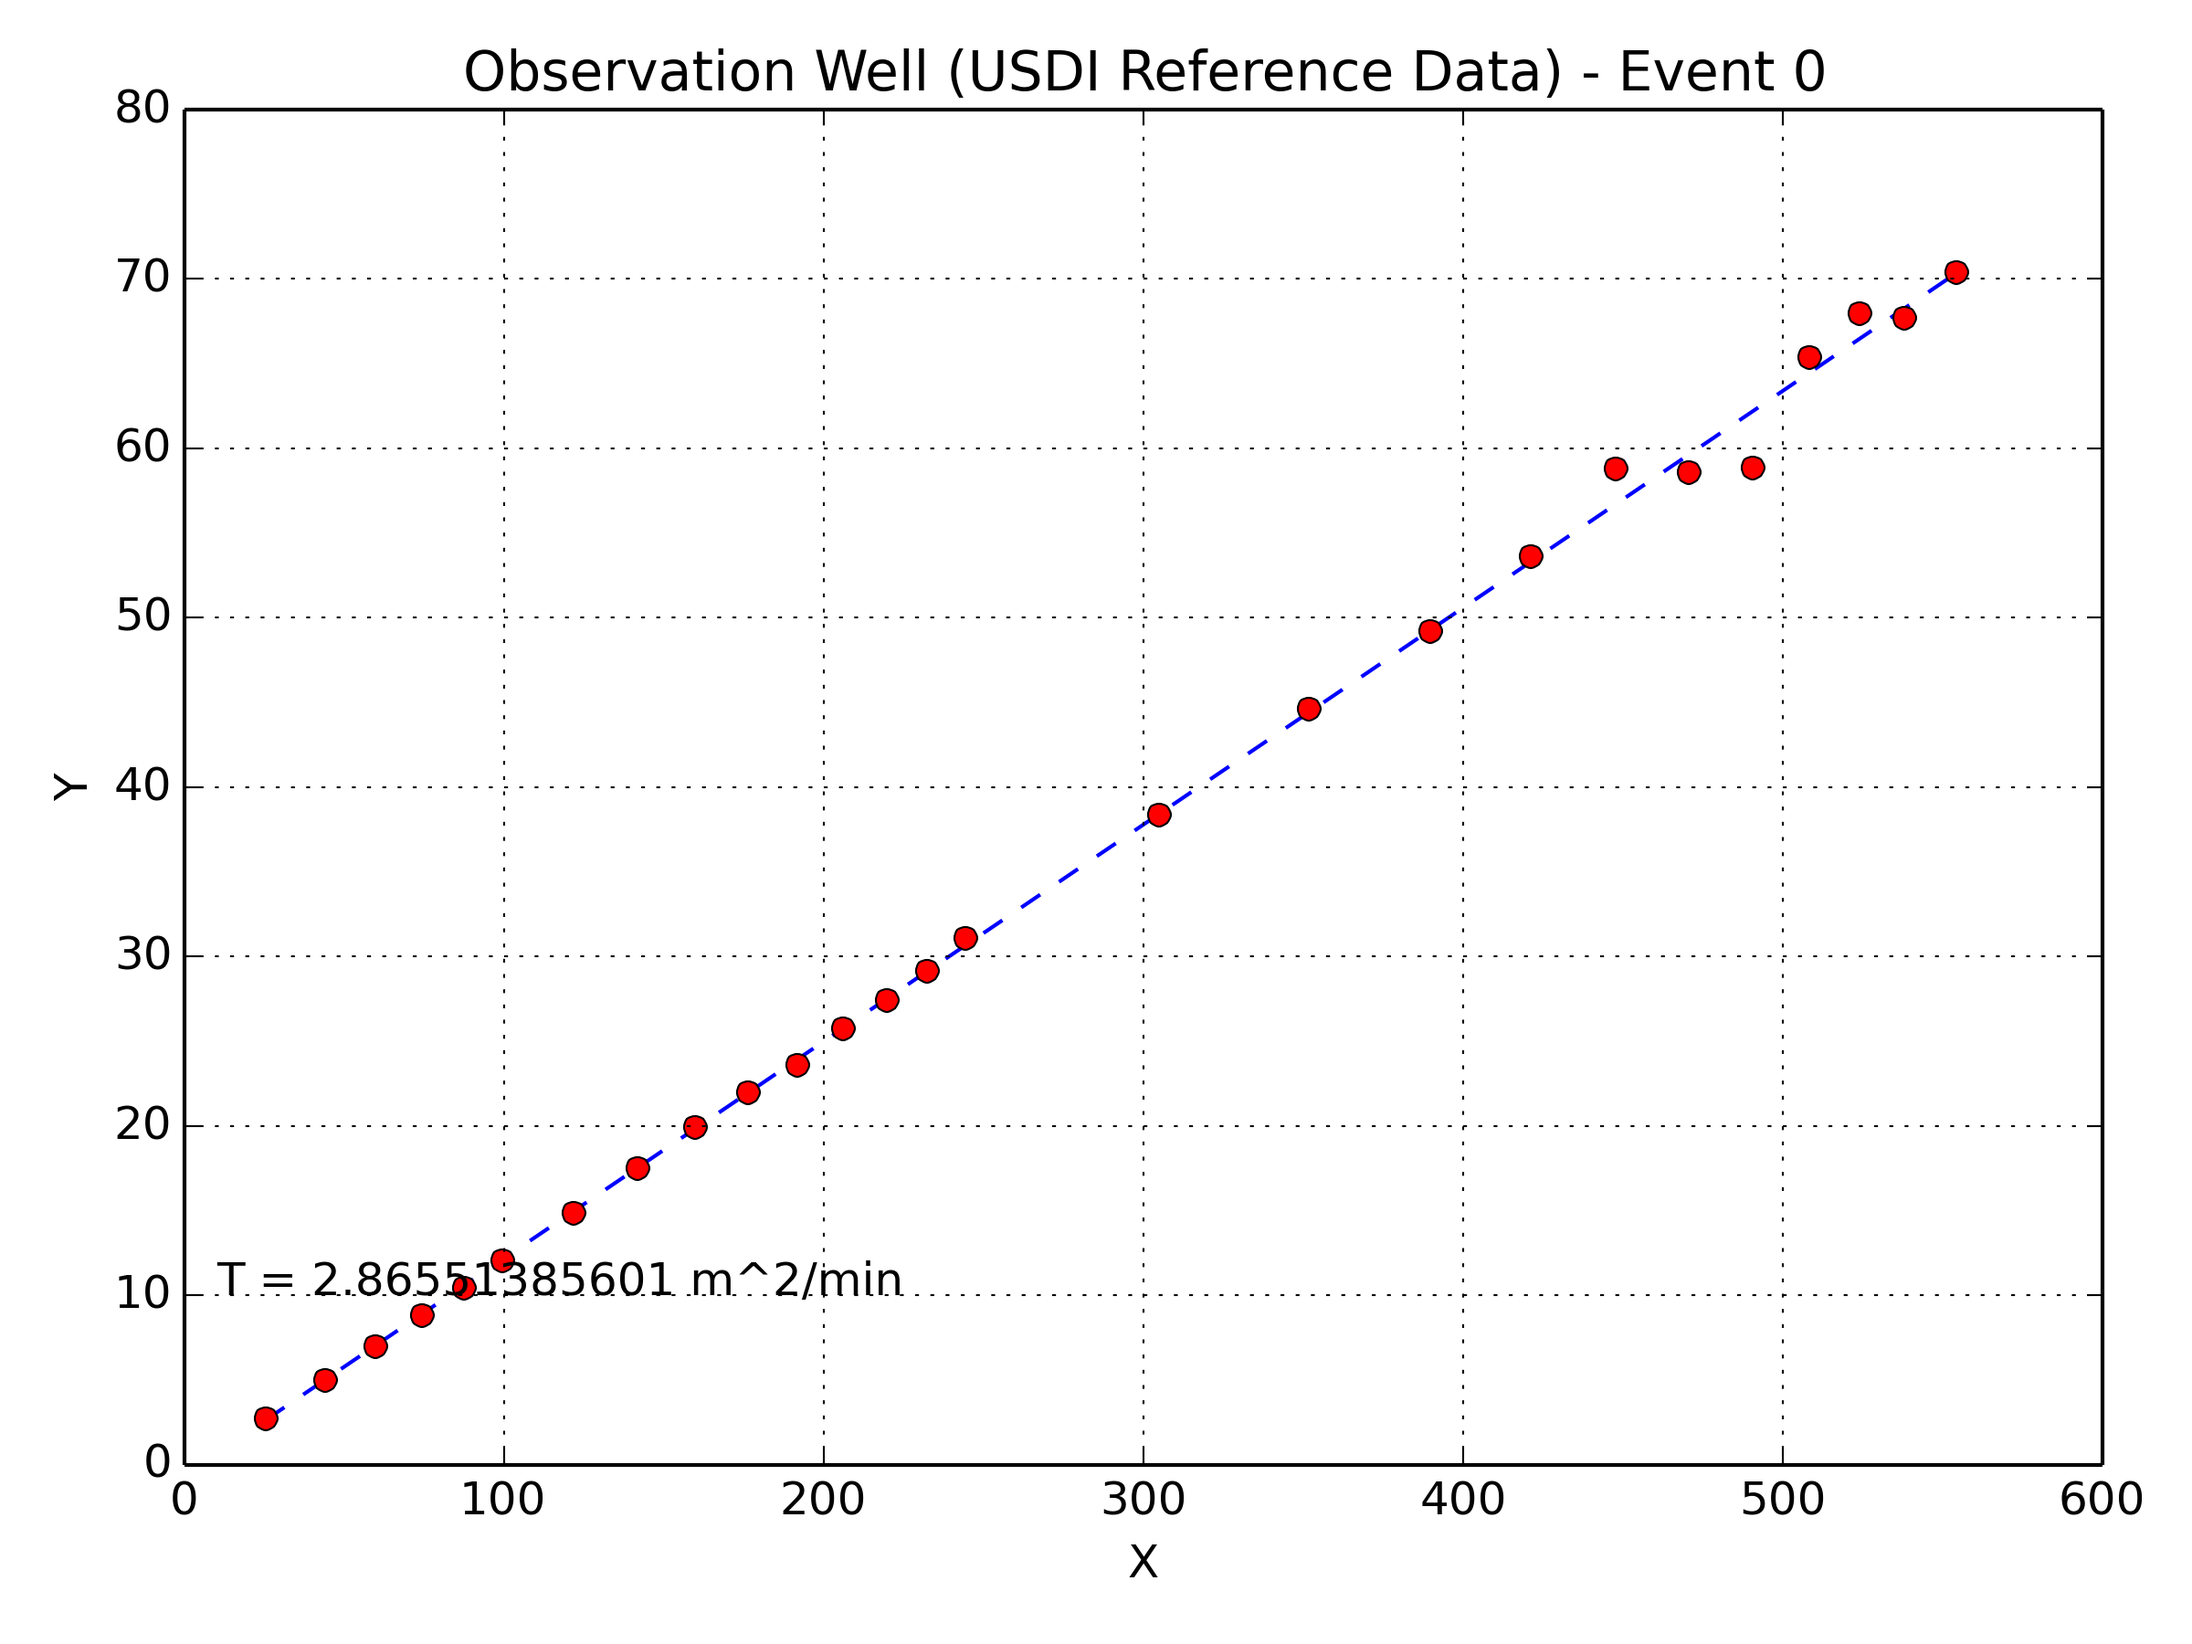
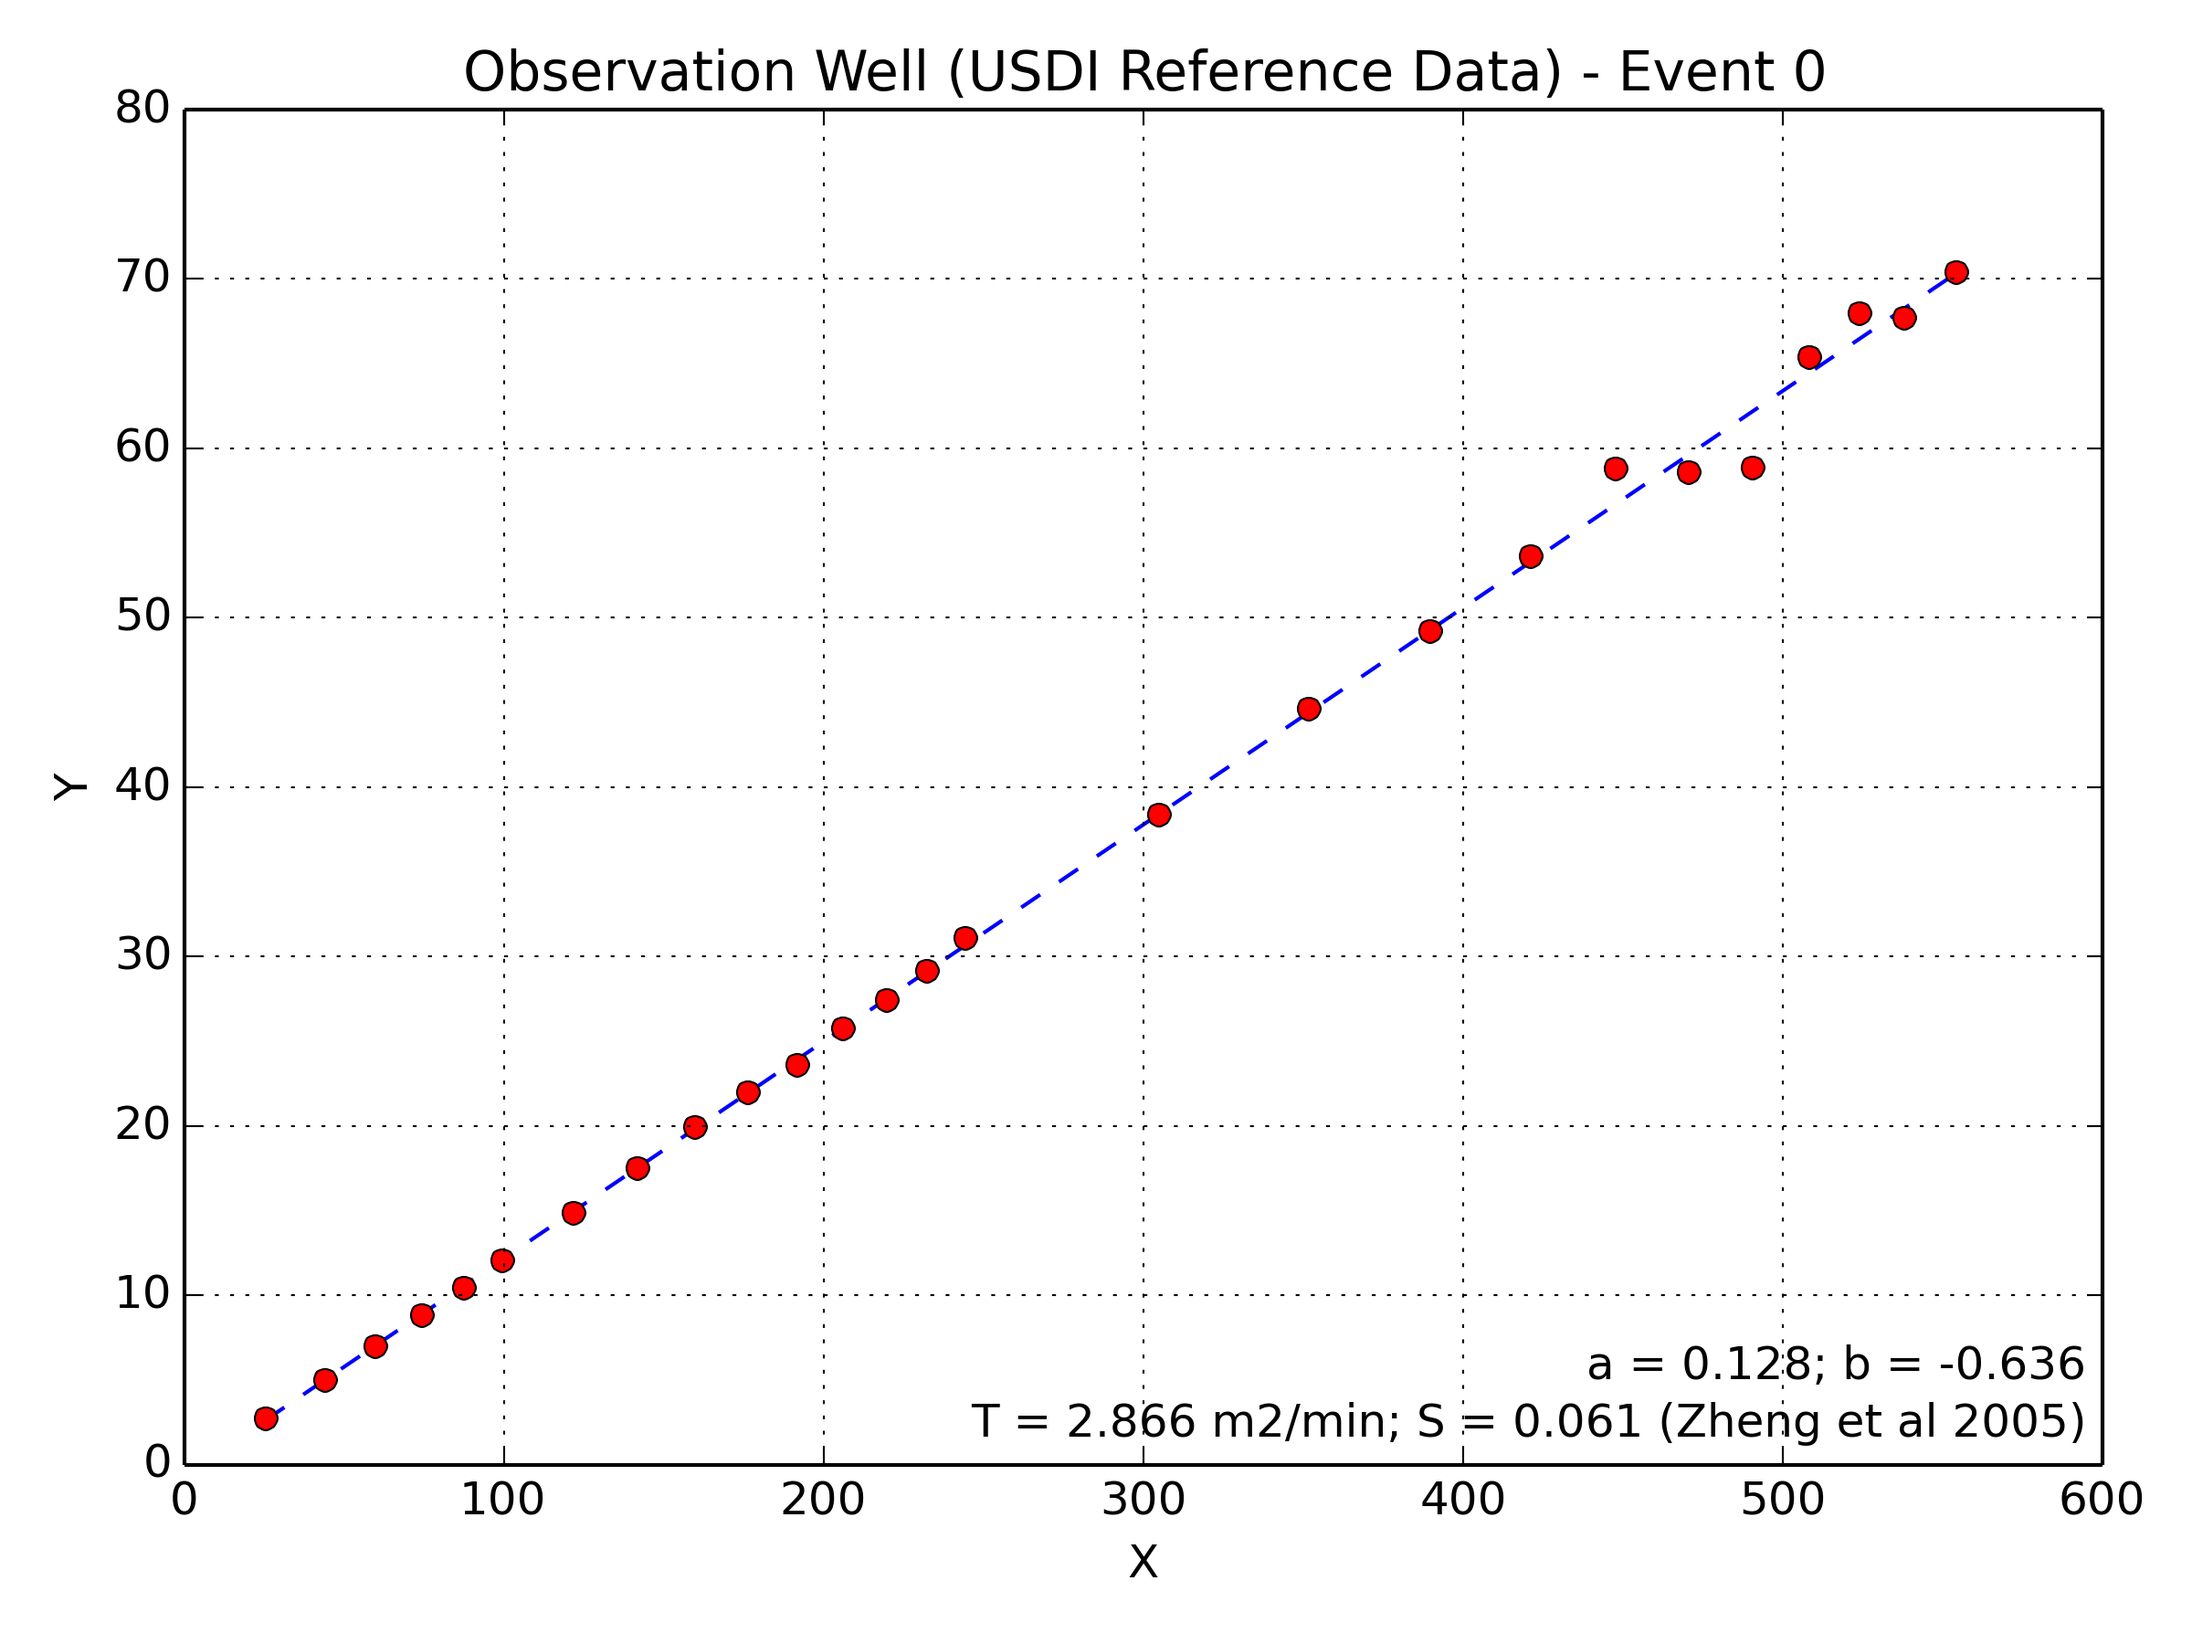
fixed bugs related to computation of T and S. Added testdata USDI. Test successful.

diff --git a/pumptest.py b/pumptest.py
@@ -6,7 +6,6 @@ Created on 08.02.2016
 Last modified on 20.09.2016
 Author: Marc Wieland
 Description: Single-well pump test to derive transmissivity and storage coefficient from waterlevel measurements.
-             0. Optional: Convert units of input data to [m below surface]
              1. Optional: Resample and/or slice timeseries
              2. Optional: Correct waterlevel with airpressure data
              3. Detect drawdown and fill events in waterlevel timeseries (automatic or manual).
@@ -19,14 +18,13 @@ Description: Single-well pump test to derive transmissivity and storage coeffici
                  a = slope of straight line fit
                  b = intercept of straight line fit
                  r = radius
-             6. Write events, waterlevels drawdown and fill (recovery) data into csv files and plot figures  
+             6. Write waterlevels drawdown and fill (recovery) data into csv files and plot figures  
 Reference: Zheng, Guo and Lei (2005): An improved straight-line fitting method for analyzing pumping 
             test recovery data. Ground water, 43 (6), 939-942.
-           Cooper and Jacob (1946): A generalized method for evaluating formation constants
-            and summarizing well-field history. Transactions of the American Geophysical
-            Union, 27 (5), 526-534.
             
-Note: Fill events are currently identified as time between two succeeding drawdown events.
+Note: Fill events are currently identified as being between two succeeding drawdown events.
+
+TODO: test with pisciarelli data
 ----
 '''
 
@@ -41,7 +39,7 @@ site_name = 'Observation Well'
 instrument = 'USDI Reference Data'
 ###
 wdir = '/home/mwieland/eclipse_workspace/python/medsuv/testdata/' # Work directory
-dat_wl = 'usdi_observationwell.csv' # File that holds the water level data 
+dat_wl = 'usdi_observationwell_auto.csv' # File that holds the water level data 
 col_wl_t = 't'  # Column that holds the measurement timestamps
 col_wl = 'wl_m' # Column that holds the water level measures in [m below surface] or [mbar]
 mbar2m = False  # Convert water level measures from [mbar] to [m below surface]
@@ -67,7 +65,7 @@ if_f = 'cubic'  # Temporal interpolation function for fill events
                 # {'linear', 'time', 'index', 'values', 'nearest', 'zero', 'slinear', , 'quadratic',
                 #  'cubic', 'barycentric', 'krogh', 'polynomial', 'spline', 'piecewise_polynomial', 'pchip'}
 ###
-eventdetection = 'manual'  # Drawdown event detection ('auto': automatic; 'manual': manual)
+eventdetection = 'auto'  # Drawdown event detection ('auto': automatic; 'manual': manual)
 peak_lookahead = 1  # Drawdown event detection ('auto'): distance to look ahead from a peak candidate to determine the actual peak
 # Drawdown event detection ('manual'): provide lists of start water level and timestamp (h1, h1_t) and stop water level and timestamps (h2, h2_t) of drawdown events 
 events = {'h1' : [18.654, 18.742], 'h1_t' : ['1975-05-19 08:40', '1975-05-20 11:20'], 'h2' : [19.221, 18.742], 'h2_t' : ['1975-05-19 22:00', '1975-05-20 11:20']}  
@@ -120,14 +118,18 @@ if c_ap is True:
 if eventdetection is 'auto':
     # Detect drawdown events in waterlevel timeseries and return h1, h2 and dt
     events = helper.drawdown_event_detection(wL, peak_lookahead)
-    print 'Drawdown events detected (auto)'
+    print str(len(events)) + ' drawdown events detected (auto)'
     print events
+    # Detect fill events in waterlevel timeseries and return h1, h2 and dt
+    #fill_events = helper.fill_event_detection(wL, peak_lookahead)
+    #print 'Fill events detected (auto)'
+    #print fill_events
 else:
     events = pd.DataFrame(events)
     events['h1_t'] = pd.to_datetime(events['h1_t'])
     events['h2_t'] = pd.to_datetime(events['h2_t'])
     events['dt'] = events['h2_t'] - events['h1_t']
-    print 'Drawdown events detected (manual)'
+    print str(len(events)) + ' drawdown events detected (manual)'
     print events
     
 ###############################################################
@@ -197,10 +199,11 @@ pd.options.mode.chained_assignment = None
 
 # Get fill event ids
 eid = wL_f['event'].unique()
+print str(len(eid)) + ' fill (recovery) events detected'
 
 for e in range(len(eid)):
     print '---------'
-    print 'Event ' + str(e)
+    print 'Computing T and S for (drawdown and fill) event ' + str(e)
     
     # Get tp for fill event (converted to float and unit in [min])
     tp = events[events.index == eid[e]]['dt'] / np.timedelta64(1, 'm')
@@ -243,7 +246,7 @@ for e in range(len(eid)):
     print 'a : ' + str(a)
     print 'b : ' + str(b)
     
-    # Compute transmissivity (T) in [m^2/s]
+    # Compute transmissivity (T) in [m2/s]
     T = Q / (4 * np.pi * a)
     events['T'][events.index == eid[e]] = T
     print 'T : ' + str(T)
@@ -259,6 +262,8 @@ for e in range(len(eid)):
     plt.plot(wL_f[wL_f['event'] == eid[e]].index, wL_f[wL_f['event'] == eid[e]]['wL'].values, 'g-', label='fill (recovery)')
     plt.plot(wL_f[wL_f['event'] == eid[e]].index, wL_f[wL_f['event'] == eid[e]]['wL'].values, 'go')
     plt.title(site_name + ' (' + instrument + ') - Event ' + str(eid[e]))
+    plt.annotate('Q = ' + str(Q) + ' m3/min; r = ' + str(r) + ' m', 
+                 xy=(1, 0), xycoords='axes fraction', fontsize=12, xytext=(-5, 5), textcoords='offset points', ha='right', va='bottom')
     plt.xlabel('Time')
     plt.ylabel('wL below surface [m]')
     plt.legend()
@@ -274,7 +279,10 @@ for e in range(len(eid)):
     plt.plot(x, a * x + b, '--')
     plt.plot(x, y, 'ro')
     plt.title(site_name + ' (' + instrument + ') - Event ' + str(eid[e]))
-    plt.annotate('T = ' + str(T) + ' m^2/min', xy=(10, 10), xytext=(10, 10))
+    plt.annotate('T = ' + str(round(T, 3)) + ' m2/min; S = ' + str(round(S, 3)) + ' (Zheng et al 2005)', 
+                 xy=(1, 0), xycoords='axes fraction', fontsize=12, xytext=(-5, 5), textcoords='offset points', ha='right', va='bottom')
+    plt.annotate('a = ' + str(round(a, 3)) + '; b = ' + str(round(b, 3)), 
+                 xy=(1, 0), xycoords='axes fraction', fontsize=12, xytext=(-5, 20), textcoords='offset points', ha='right', va='bottom')
     plt.xlabel('X')
     plt.ylabel('Y')
     plt.grid()
@@ -367,7 +375,7 @@ if len(events) > 1:
 ### Results output ###
 ######################
 # Write events dataframe to csv
-events.to_csv(wdir + 'events.csv', sep=';')
+#events.to_csv(wdir + 'events.csv', sep=';')
 
 # Write water levels for drawdown and fill events to csv
 if wL_d is not None:

diff --git a/timeseries/helper.py b/timeseries/helper.py
@@ -159,7 +159,74 @@ def drawdown_event_detection(timeseries, peak_lookahead):
     a standard peak detection function.
     
     arguments:
-    timeseries: Pandas timeseries object that holds the waterlevel as values.
+    timeseries: Pandas timeseries object that holds the waterlevel as values. Note waterlevel must be in meters below surface.
+    peak_lookahead: Distance to look ahead from a peak candidate to determine if it is the actual peak.
+                    '(sample / period) / f' where '4 >= f >= 1.25' might be a good value
+    
+    returns: Pandas dataframe with h1: waterlevel at event start time.
+                                   h1_t: event start time.
+                                   h2: waterlevel at event end time.
+                                   h2_t: event end time.
+                                   dt: timedifference between start and end.                                
+    """
+    # detect max and min peaks in timeseries
+    peak_max, peak_min = peakdetect(timeseries.values, timeseries.index, lookahead=peak_lookahead, delta=0.30)
+    if len(peak_max) == 0 or len(peak_min) == 0:
+        print 'Sorry no peaks found in timeseries. Try with a smaller peak_lookahead value.'
+        exit()
+    else:
+        # convert resulting lists to timeseries
+        peak_max = np.array(peak_max)
+        peak_min = np.array(peak_min)
+        peak_max_dates = pd.DatetimeIndex(peak_max[:,0])
+        peak_min_dates = pd.DatetimeIndex(peak_min[:,0])
+        peak_max = pd.Series(peak_max[:,1], index=peak_max_dates)
+        peak_min = pd.Series(peak_min[:,1], index=peak_min_dates)
+        
+        # create helper timeseries to identify drawdown event starts and ends from peaks
+        peak_max_ = np.zeros(shape=(peak_max.shape[0],1), dtype=int)
+        peak_min_ = np.zeros(shape=(peak_min.shape[0],1), dtype=int)
+        peak_max_.fill(2)   # identifier for event starts
+        peak_min_.fill(1)   # identifier for event ends
+        peak_max_ = pd.Series(peak_max_[:,0], index=peak_max_dates)
+        peak_min_ = pd.Series(peak_min_[:,0], index=peak_min_dates)
+        peaks_ = peak_max_.combine_first(peak_min_)
+        peaks_ = np.all(rolling_window(peaks_.values, 2) == [1, 2], axis=1)
+        
+        # extract event-relevant peaks from peaks timeseries using helper object
+        peaks = peak_max.combine_first(peak_min)
+        h1 = []
+        h1_t = []
+        h2 = []
+        h2_t = []
+        for i in range(len(peaks_)):
+            if peaks_[i] == 1:
+                # if helper object is True it is an event
+                h1.append(peaks.values[i])
+                h1_t.append(peaks.index[i])
+                h2.append(peaks.values[i+1])
+                h2_t.append(peaks.index[i+1])
+        
+        # combine peaks into events object
+        events = {'h1' : h1,
+                  'h1_t' : h1_t,
+                  'h2' : h2,
+                  'h2_t' : h2_t}
+        events = pd.DataFrame(events)
+        
+        # compute time difference between events start and end    
+        events['dt'] = events['h2_t'] - events['h1_t']
+        
+        return events
+
+
+def fill_event_detection(timeseries, peak_lookahead):
+    """
+    Performs fill event detection in waterlevel timeseries using
+    a standard peak detection function.
+    
+    arguments:
+    timeseries: Pandas timeseries object that holds the waterlevel as values. Note waterlevel must be in meters below surface.
     peak_lookahead: Distance to look ahead from a peak candidate to determine if it is the actual peak.
                     '(sample / period) / f' where '4 >= f >= 1.25' might be a good value
     
